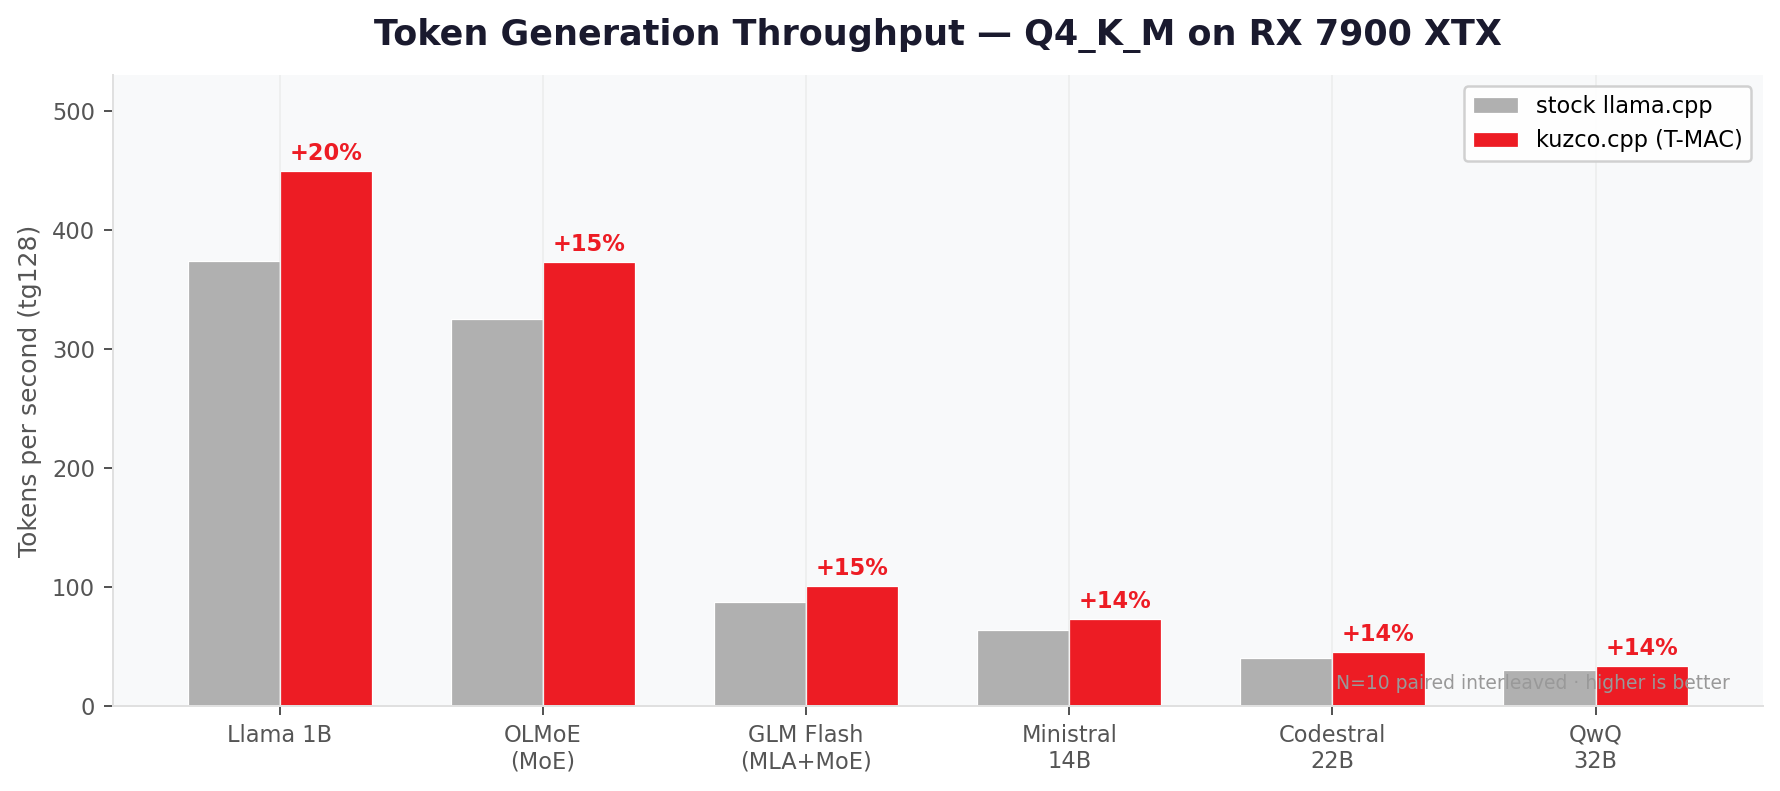
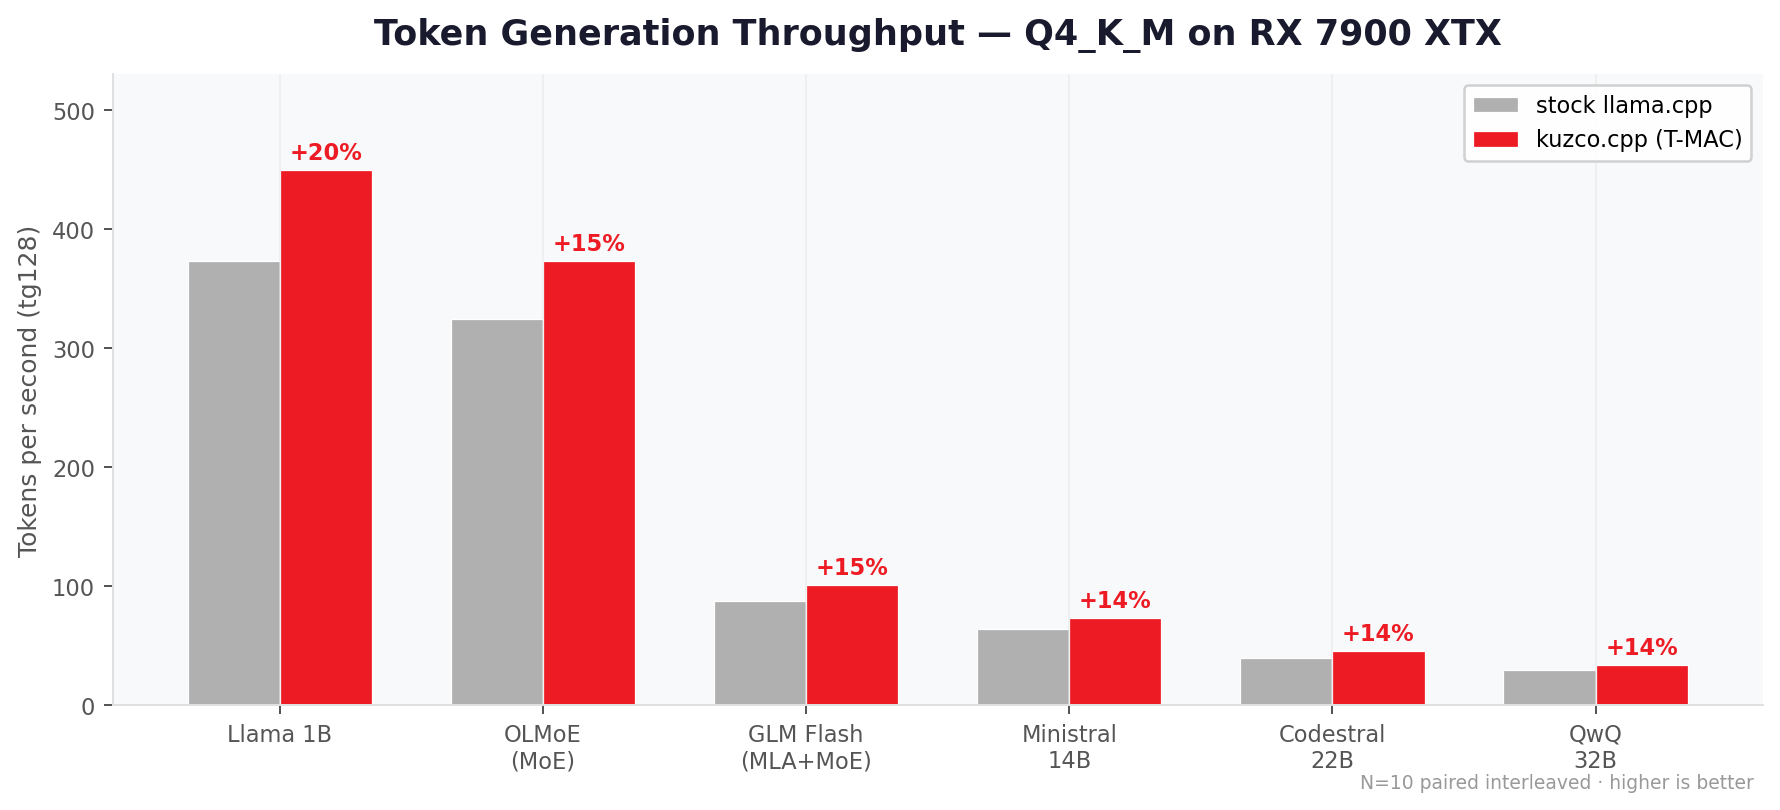
docs: promote IQ and multi-GPU sections, add multi-GPU throughput chart
Move IQ types and multi-GPU from collapsed <details> to visible H3 sections
under Performance. Add new grouped bar chart showing absolute t/s for dual
7900 XTX results (Mixtral, Scout, 70B). Fix chart annotation overlap by
moving metadata text below the plot area.

Restructure follows expert panel review: single-GPU Q4_K_M remains the lead,
IQ types and multi-GPU get more visibility without dominating.

diff --git a/scripts/generate-benchmark-charts.py b/scripts/generate-benchmark-charts.py
@@ -159,11 +159,54 @@ def chart_absolute():
     style_ax(ax, 'Token Generation Throughput — Q4_K_M on RX 7900 XTX', ylabel='Tokens per second (tg128)')
     ax.legend(loc='upper right', framealpha=0.9, fontsize=9)
 
-    ax.text(0.98, 0.02, 'N=10 paired interleaved · higher is better',
-            transform=ax.transAxes, fontsize=7.5, color='#999', ha='right', va='bottom')
+    fig.tight_layout()
+    fig.text(0.98, 0.01, 'N=10 paired interleaved · higher is better',
+             fontsize=7.5, color='#999', ha='right', va='bottom')
+    path = os.path.join(OUT_DIR, 'chart-throughput-q4km.png')
+    fig.savefig(path, dpi=180, bbox_inches='tight', facecolor='white')
+    plt.close(fig)
+    print(f'  {path}')
+
+
+# ═══════════════════════════════════════════════════════════════════════
+# Chart 4: Multi-GPU absolute throughput (stock vs T-MAC, dual 7900 XTX)
+# ═══════════════════════════════════════════════════════════════════════
+def chart_multigpu():
+    models = [
+        'Mixtral 8x7B\nIQ3_S',
+        'Llama 4 Scout\nIQ2_XXS-UD',
+        '70B IQ2_XXS',
+        '70B Q4_0',
+    ]
+    stock = [55.47, 39.84, 19.26, 20.83]
+    tmac  = [80.67, 44.62, 22.90, 22.19]
+
+    fig, ax = plt.subplots(figsize=(9, 4.5))
+    fig.patch.set_facecolor('white')
+
+    x = np.arange(len(models))
+    w = 0.35
+
+    ax.bar(x - w/2, stock, w, label='stock llama.cpp', color=GRAY_BAR, edgecolor='white', linewidth=0.5)
+    ax.bar(x + w/2, tmac, w, label='kuzco.cpp (T-MAC)', color=AMD_RED, edgecolor='white', linewidth=0.5)
+
+    # Speedup labels above T-MAC bars
+    for i, (s, t) in enumerate(zip(stock, tmac)):
+        sp = 100 * (t - s) / s
+        ax.text(x[i] + w/2, t + 1.2, f'+{sp:.1f}%', ha='center', va='bottom',
+                fontsize=9, fontweight='bold', color=AMD_RED)
+
+    ax.set_xticks(x)
+    ax.set_xticklabels(models, fontsize=9)
+    ax.set_ylim(0, max(tmac) * 1.18)
+
+    style_ax(ax, 'Multi-GPU Throughput — Dual RX 7900 XTX', ylabel='Tokens per second (tg128)')
+    ax.legend(loc='upper right', framealpha=0.9, fontsize=9)
 
     fig.tight_layout()
-    path = os.path.join(OUT_DIR, 'chart-throughput-q4km.png')
+    fig.text(0.98, 0.01, 'N≥10 paired · dual 7900 XTX · higher is better',
+             fontsize=7.5, color='#999', ha='right', va='bottom')
+    path = os.path.join(OUT_DIR, 'chart-multigpu-throughput.png')
     fig.savefig(path, dpi=180, bbox_inches='tight', facecolor='white')
     plt.close(fig)
     print(f'  {path}')
@@ -175,4 +218,5 @@ if __name__ == '__main__':
     chart_q4km()
     chart_iq()
     chart_absolute()
+    chart_multigpu()
     print('Done.')

diff --git a/README.md b/README.md
@@ -57,8 +57,7 @@ same models, same output quality, same commands.
 
 </details>
 
-<details>
-<summary>IQ types — fitting big models into less VRAM</summary>
+### IQ types — fitting big models into less VRAM
 
 IQ ("importance quantization") compresses models more aggressively, using fewer
 **bits per weight (bpw)**. Lower bpw = smaller file = less VRAM needed, but lower
@@ -71,6 +70,9 @@ VRAM, at the cost of lower output quality.
   <img src="docs/tmac/chart-iq-speedup.png" alt="IQ types speedup" width="650">
 </p>
 
+<details>
+<summary>Exact numbers (click to expand)</summary>
+
 | Model | Quant | bpw | VRAM savings vs Q4_K | Speedup |
 |-------|-------|----:|---------------------:|--------:|
 | Llama 1B | IQ3_XXS | 3.06 | ~36% less | **+36.9%** |
@@ -81,30 +83,37 @@ VRAM, at the cost of lower output quality.
 | Llama 1B | IQ2_XS | 2.31 | ~52% less | **+17.0%** |
 | Llama 1B | IQ1_M | 1.75 | ~64% less | **+11.9%** |
 
+</details>
+
 **Why are IQ speedups higher?** Stock llama.cpp uses a generic lookup-table approach
 for IQ types. T-MAC replaces this with an optimized implementation — the more
 complex the dequantization, the more T-MAC can improve it.
 
-</details>
-
-<details>
-<summary>Multi-GPU (dual 7900 XTX)</summary>
+### Multi-GPU (dual 7900 XTX)
 
 Two GPUs allow running models that don't fit on a single card (e.g. Llama 70B at
 ~38 GB in Q4_0). T-MAC accelerates each GPU's work independently.
 
-| Model | Quant | Speedup |
-|-------|-------|--------:|
-| Mixtral 8x7B | IQ3_S | **+45.4%** |
-| Llama 70B | IQ2_XXS | **+18.9%** |
-| Llama 4 Scout | IQ2_XXS-UD | **+12.0%** |
-| Llama 70B | Q4_0 | **+6.5%** |
+<p align="center">
+  <img src="docs/tmac/chart-multigpu-throughput.png" alt="Multi-GPU throughput comparison" width="800">
+</p>
 
-> **Note:** Multi-GPU speedups are higher because fixed synchronization overhead
-> penalizes the stock baseline disproportionately. Single-GPU numbers are the
-> fairer comparison for most users.
+<details>
+<summary>Exact numbers (click to expand)</summary>
+
+| Model | Quant | Stock | T-MAC | Speedup |
+|-------|-------|------:|------:|--------:|
+| Mixtral 8x7B | IQ3_S | 55.5 t/s | 80.7 t/s | **+45.4%** |
+| Llama 4 Scout | IQ2_XXS-UD | 39.8 t/s | 44.6 t/s | **+12.0%** |
+| Llama 70B | IQ2_XXS | 19.3 t/s | 22.9 t/s | **+18.9%** |
+| Llama 70B | Q4_0 | 20.8 t/s | 22.2 t/s | **+6.5%** |
 
 </details>
+
+> **Note:** Multi-GPU speedups vary widely by quantization type. IQ types benefit
+> most because T-MAC's kernel optimization compounds with reduced synchronization
+> overhead. The Mixtral result (+45.4%) reflects MoE architecture advantages —
+> single-GPU numbers are the fairer baseline for most comparisons.
 
 <details>
 <summary>Tested model architectures</summary>
